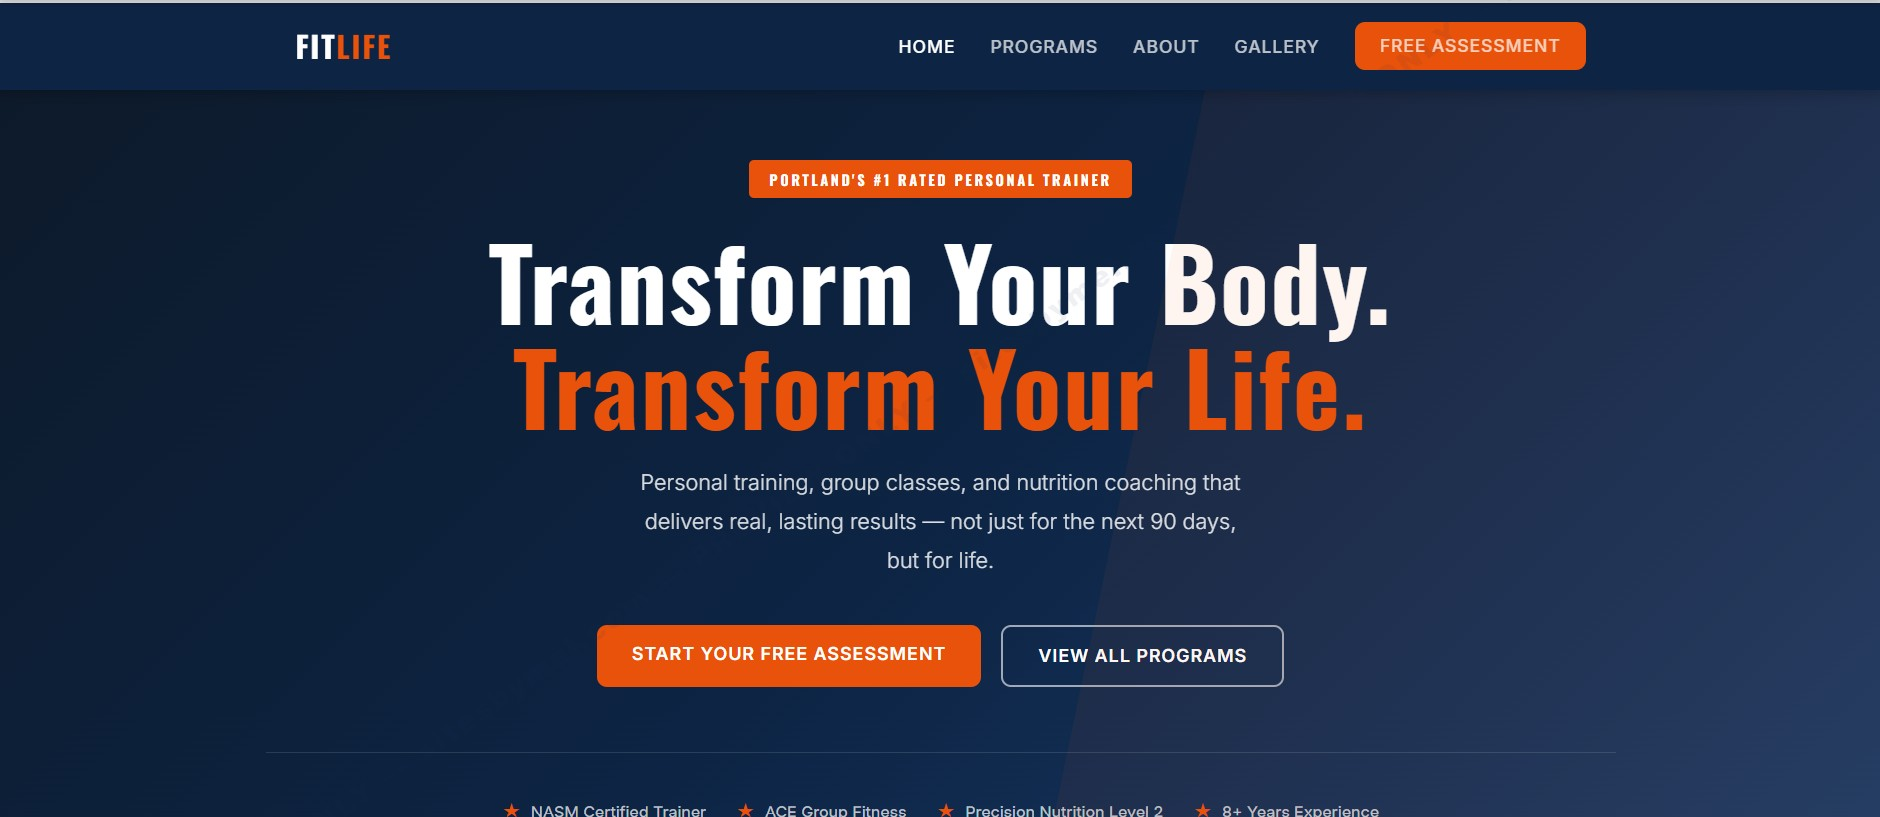
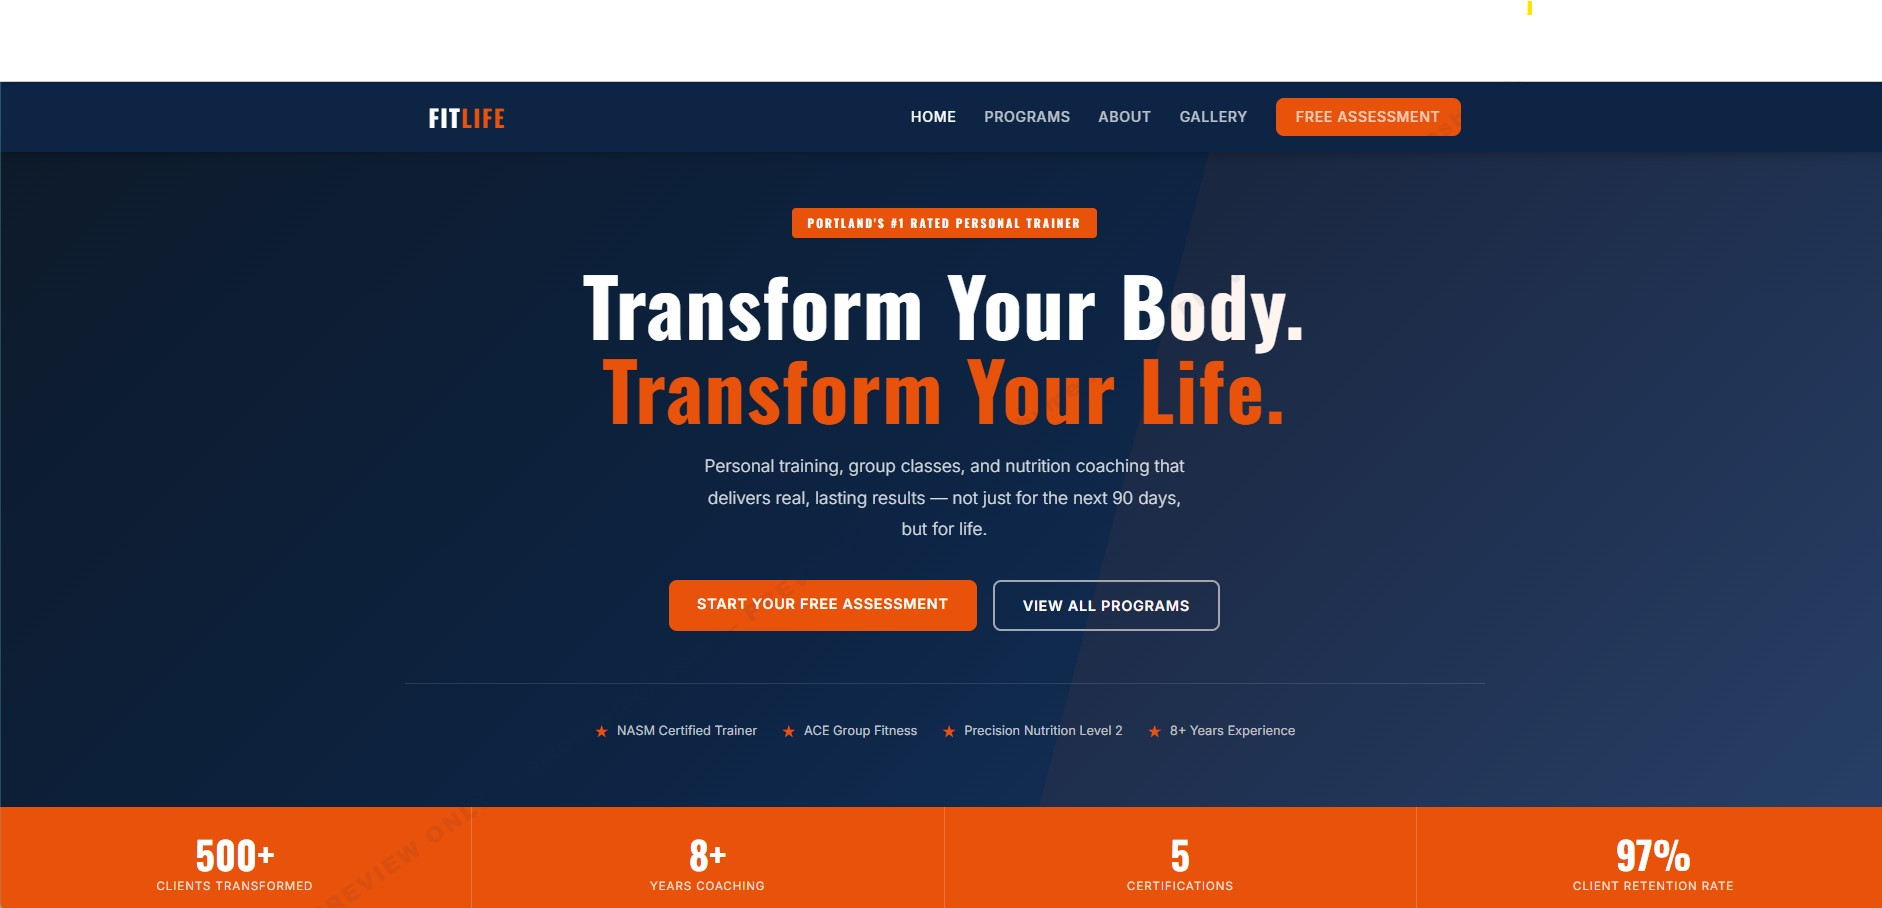
Update template thumbnails to new screenshot filenames

diff --git a/database.js b/database.js
@@ -258,11 +258,11 @@ for (const [slug, url] of previewUrls) backfill.run(url, slug);
 // Wire up thumbnail images
 const thumbnails = [
   ['service-pro',    'service-pro.jpg'],
-  ['table-ready',    'Tables.jpg'],
-  ['key-ready',      'KeyReady.jpg'],
-  ['shop-front',     'ShopReady.jpg'],
-  ['voice-first',    'ThoughtfulCreator.jpg'],
-  ['gather-here',    'Cornerstone.jpg'],
+  ['table-ready',    'table-ready.jpg'],
+  ['key-ready',      'key-ready.jpg'],
+  ['shop-front',     'shop-front.jpg'],
+  ['voice-first',    'voice-first.jpg'],
+  ['gather-here',    'gather-here.jpg'],
   ['pet-shop',       'pet-shop.jpg'],
   ['beauty-studio',  'beauty-studio.jpg'],
   ['lens-and-light', 'lens-and-light.jpg'],